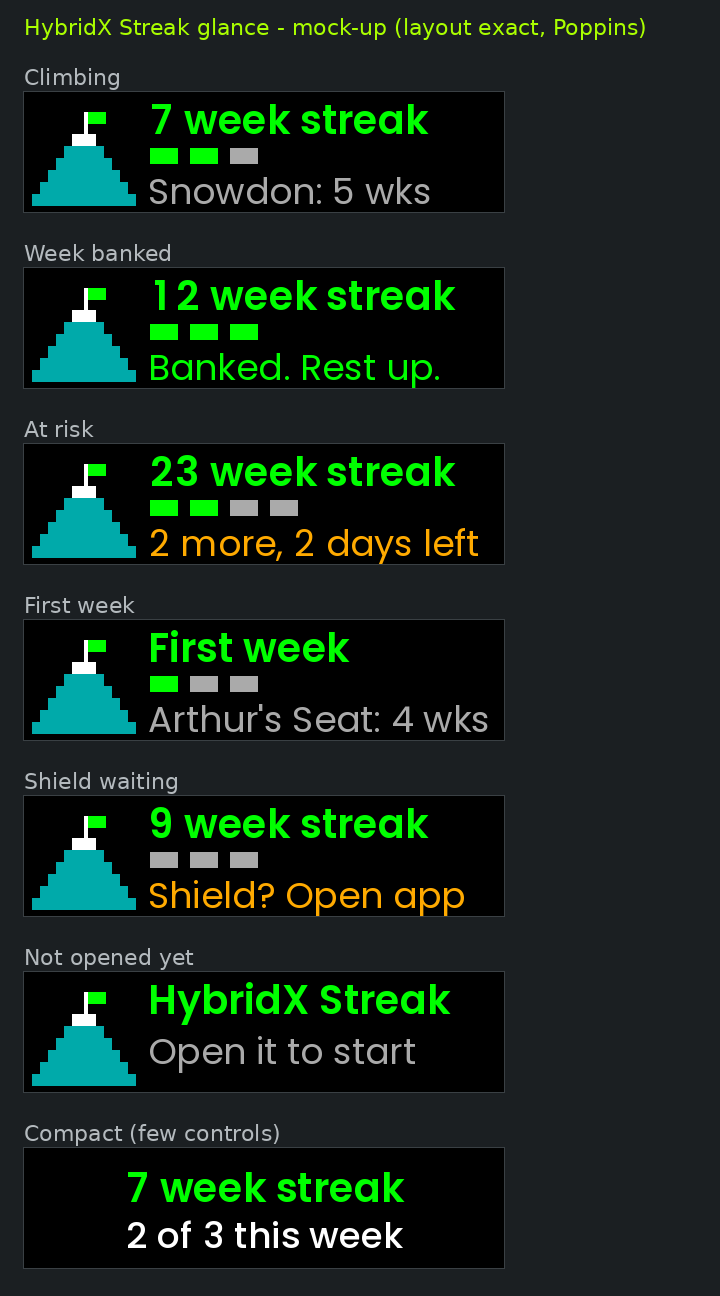
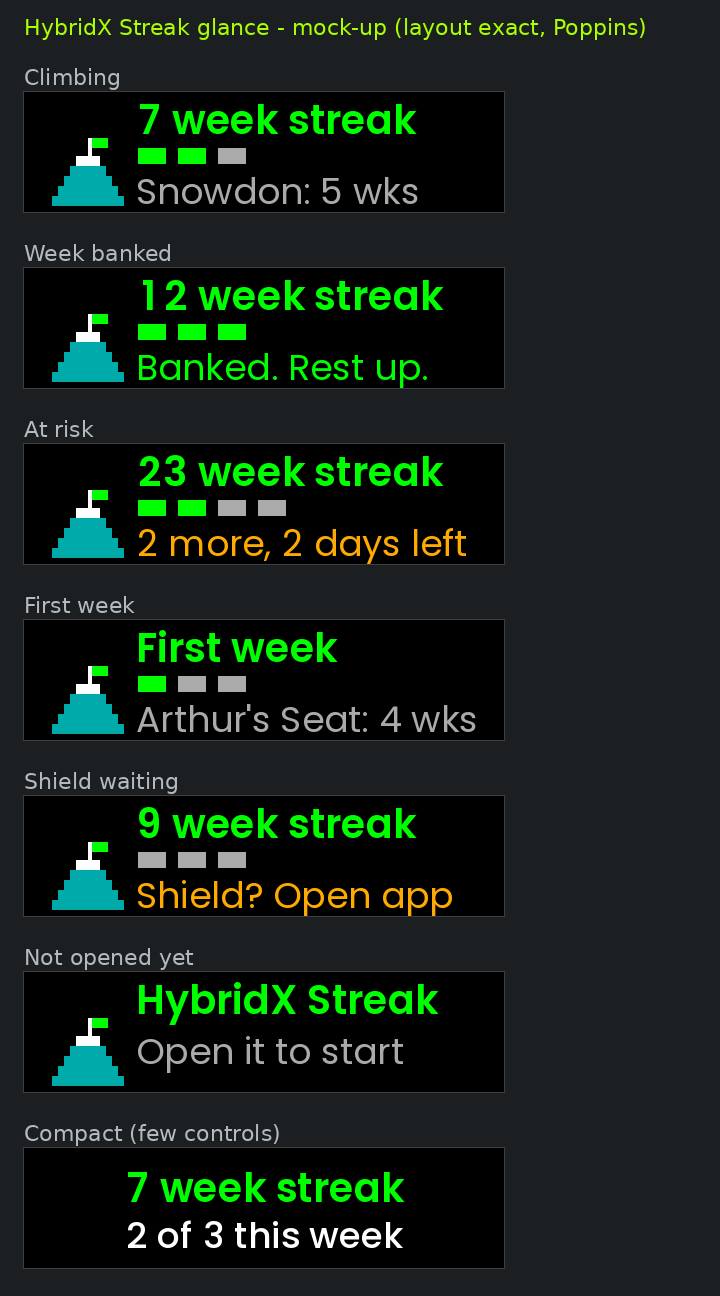
Streak glance: condense the mountain and hold the content in from the edges
On the watch the glance filled the round screen's full width, so the
mountain's foot ran into the list's curved scroll marker and the words sat
close to the right edge. The mountain is now five 5 px blocks, 36 px wide
(was six, 52 px), the content starts 14 px in (was 4), and the words keep
8 px clear on the right. No text changed: the longest line is 173 px in the
176 px available.

- Full layout needs 9 + target controls (at most 16).
- GlanceLayoutTest follows the smaller mountain and checks it starts at
  least 12 px in.
- Preview and NOTES S4.3 / DESIGN 8 updated.

Claude-Session: https://claude.ai/code/session_019GGBxFAqbmjDCAZjioYeW2

diff --git a/hybridx-streak/Software/Libs/Glance/Sources/GlanceLayout.cpp b/hybridx-streak/Software/Libs/Glance/Sources/GlanceLayout.cpp
@@ -30,16 +30,22 @@ constexpr int16_t kFullHeight    = kBeadTop + kBeadH + 1 + kLine;   ///< 60
 constexpr int16_t kTwoLineHeight = kHead + kLine;                   ///< 48
 // The mountain is stacked rectangles, not lines: on the watch the line
 // control drew only a faint stub (NOTES S4.3), while rectangles are proven.
-constexpr uint8_t  kTiers    = 6;            ///< stacked blocks, widest at the foot
-constexpr int16_t  kTierH    = 6;
+constexpr uint8_t  kTiers    = 5;            ///< stacked blocks, widest at the foot
+constexpr int16_t  kTierH    = 5;
 constexpr uint32_t kMountainControls = kTiers + 2;   ///< the tiers, the pole and the flag
 constexpr uint8_t  kMaxBeads = 7;            ///< targets are 1..7 (Goal)
-// The mountain's box, and the gap between it and the words. 52 + 6 leaves
-// 178 px of words in a 240 px area: the longest message, "Arthur's Seat:
-// 4 wks", is 173 px in Regular 18 (GlanceLayoutTest measures every one).
-constexpr int16_t kMountain = 52;
+// The glance sits in a round screen, with the list's scroll marker curving
+// over the left edge, so the content is held in from both sides: the
+// mountain is 36 px wide, starting 14 px in, and the words keep 8 px clear
+// on the right. That leaves 176 px of words in a 240 px area; the longest
+// message, "Arthur's Seat: 4 wks", is 173 px in Regular 18 (GlanceLayoutTest
+// measures every one).
+constexpr int16_t kInset    = 14;
+constexpr int16_t kMountain = 36;
 constexpr int16_t kWordsGap = 6;
-constexpr int16_t kFullWidth = 4 + kMountain + kWordsGap + 178;   ///< 240
+constexpr int16_t kRightGap = 8;
+constexpr int16_t kWordsMin = 176;
+constexpr int16_t kFullWidth = kInset + kMountain + kWordsGap + kWordsMin + kRightGap;   ///< 240
 
 unsigned u(uint32_t v) { return static_cast<unsigned>(v); }
 
@@ -183,21 +189,21 @@ void layout(const Streak::HomeView& v, State state, int16_t width, int16_t heigh
     // matters now.
     out.kind           = Layout::Kind::Full;
     const int16_t oy   = static_cast<int16_t>((height - kFullHeight) / 2);
-    const int16_t x0   = 4;
+    const int16_t x0   = kInset;
     const int16_t base = static_cast<int16_t>(oy + kFullHeight - 3);
     const int16_t top  = static_cast<int16_t>(base - kTiers * kTierH);
     const int16_t apex = static_cast<int16_t>(x0 + kMountain / 2);
-    const int16_t step = static_cast<int16_t>((kMountain - 12) / (kTiers - 1));   // 8: 52, 44 ... 12 wide
+    const int16_t step = static_cast<int16_t>((kMountain - 12) / (kTiers - 1));   // 6: 36, 30 ... 12 wide
     for (uint8_t i = 0; i < kTiers; ++i) {
         const int16_t w = static_cast<int16_t>(kMountain - i * step);
         rect(out, static_cast<int16_t>(x0 + i * step / 2), static_cast<int16_t>(base - (i + 1) * kTierH), w, kTierH,
              i == kTiers - 1 ? GLANCE_COLOR_WHITE : GLANCE_COLOR_TEAL);
     }
-    rect(out, apex, static_cast<int16_t>(top - 11), 2, 11, GLANCE_COLOR_WHITE);
-    rect(out, static_cast<int16_t>(apex + 2), static_cast<int16_t>(top - 11), 9, 6, GLANCE_COLOR_GREEN);
+    rect(out, apex, static_cast<int16_t>(top - 9), 2, 9, GLANCE_COLOR_WHITE);
+    rect(out, static_cast<int16_t>(apex + 2), static_cast<int16_t>(top - 9), 8, 5, GLANCE_COLOR_GREEN);
 
     const int16_t tx = static_cast<int16_t>(x0 + kMountain + kWordsGap);
-    const int16_t tw = static_cast<int16_t>(width - tx);
+    const int16_t tw = static_cast<int16_t>(width - tx - kRightGap);
     text(out, tx, oy, tw, kHead, w.head, GLANCE_FONT_POPPINS_SEMIBOLD_20, w.headColour, GLANCE_ALIGN_H_LEFT);
     // Beads: done in green, still to do in grey. Both filled rects, which
     // the watch is known to draw.

diff --git a/hybridx-streak/Tests/Host/GlanceLayoutTest.cpp b/hybridx-streak/Tests/Host/GlanceLayoutTest.cpp
@@ -116,8 +116,9 @@ TEST(GlanceLayout, FitsEveryAreaAndBudget)
     }
 }
 
-/// The full layout's mountain: 6 blocks, the flag pole and the flag.
-constexpr int kMountain = 8;
+/// The full layout's mountain: 5 blocks, the flag pole and the flag.
+constexpr int kMountain = 7;
+constexpr int kTiers    = 5;
 
 /// The full layout's bottom line: its last control.
 const Spec& bottom(const Layout& l) { return l.items[l.count - 1]; }
@@ -196,18 +197,20 @@ TEST(GlanceLayout, TheMountainNarrowsToACentredSummit)
     ASSERT_EQ(l.kind, Layout::Kind::Full);
     int16_t prevTop = 1000;
     int16_t prevW   = 1000;
-    for (int i = 0; i < 6; ++i) {   // the blocks, foot to summit
+    for (int i = 0; i < kTiers; ++i) {   // the blocks, foot to summit
         const Spec& b = l.items[i];
         ASSERT_EQ(b.type, Spec::Type::Rect) << i;
         EXPECT_LT(b.y, prevTop) << "each block sits above the last " << i;
         EXPECT_LT(b.w, prevW) << "and is narrower " << i;
-        EXPECT_EQ(b.x + b.w / 2, 4 + 26) << "centred under the summit " << i;
+        EXPECT_EQ(b.x + b.w / 2, 14 + 18) << "centred under the summit " << i;
         prevTop = b.y;
         prevW   = b.w;
     }
-    EXPECT_EQ(l.items[5].colour, GLANCE_COLOR_WHITE);   // the cap
-    // The flag stands on the summit.
-    EXPECT_EQ(l.items[6].y + l.items[6].h, l.items[5].y);
+    EXPECT_EQ(l.items[kTiers - 1].colour, GLANCE_COLOR_WHITE);   // the cap
+    // The flag pole stands on the summit.
+    EXPECT_EQ(l.items[kTiers].y + l.items[kTiers].h, l.items[kTiers - 1].y);
+    // Held in from the left edge, clear of the scroll marker.
+    EXPECT_GE(l.items[0].x, 12);
 }
 
 TEST(GlanceLayout, FewControlsGiveTheCompactLayout)
@@ -217,10 +220,10 @@ TEST(GlanceLayout, FewControlsGiveTheCompactLayout)
     EXPECT_EQ(l.kind, Layout::Kind::Compact);
     EXPECT_EQ(l.count, 2);
     EXPECT_STREQ(l.items[1].text, "2 of 3 this week");
-    // A target of 7 needs 17 controls for the full layout.
-    Glance::layout(view(7, 2, 7, Streak::Mood::Climbing), State::Normal, 240, 60, 16, l);
+    // A target of 7 needs 16 controls for the full layout.
+    Glance::layout(view(7, 2, 7, Streak::Mood::Climbing), State::Normal, 240, 60, 15, l);
     EXPECT_EQ(l.kind, Layout::Kind::Compact);
-    Glance::layout(view(7, 2, 7, Streak::Mood::Climbing), State::Normal, 240, 60, 17, l);
+    Glance::layout(view(7, 2, 7, Streak::Mood::Climbing), State::Normal, 240, 60, 16, l);
     EXPECT_EQ(l.kind, Layout::Kind::Full);
     Glance::layout(view(7, 2, 3, Streak::Mood::Climbing), State::Normal, 240, 30, 32, l);
     EXPECT_EQ(l.kind, Layout::Kind::Tiny);

diff --git a/hybridx-streak/Software/Libs/Glance/Header/GlanceLayout.hpp b/hybridx-streak/Software/Libs/Glance/Header/GlanceLayout.hpp
@@ -52,7 +52,7 @@ struct Spec {
 };
 
 struct Layout {
-    static constexpr uint8_t kMax = 20;   ///< the full layout uses at most 17
+    static constexpr uint8_t kMax = 20;   ///< the full layout uses at most 16
     Spec    items[kMax] {};
     uint8_t count = 0;
     enum class Kind : uint8_t { Full, Compact, Tiny } kind = Kind::Full;

diff --git a/hybridx-streak/docs/NOTES.md b/hybridx-streak/docs/NOTES.md
@@ -883,7 +883,7 @@ draw correctly (the flag, the beads, every word).
 narrowing by 8 px a tier to a 12 px white cap, with a 2 px white pole and the
 green flag on top. Same footprint as before, so the words still have 178 px.
 - The mountain is 8 controls (it was 5), so the full layout needs
-  10 + target controls (at most 17). `Layout::kMax` is 20. The watch reports
+  10 + target controls (at most 17), before it was condensed (below). `Layout::kMax` is 20. The watch reports
   32.
 - **Guards:** `GlanceLayoutTest` fails if the full layout contains a line
   control, and checks the mountain: each block above and narrower than the one
@@ -897,3 +897,19 @@ green flag on top. Same footprint as before, so the words still have 178 px.
 
 **Verified:** 115 host tests pass; the glance compiles for the watch. Jon to
 check the new mountain on the watch.
+
+**Condensed (Jon's photo of the S4.3 build):** the mountain drew well, but
+the glance filled the round screen's full width: the mountain's foot ran into
+the list's curved scroll marker on the left, and the words sat close to the
+right edge.
+- The mountain is smaller: five 5 px blocks, 36 px wide at the foot (it was
+  six 6 px blocks, 52 px), with a 9 px pole and an 8×5 px flag.
+- Content is held in from both edges: 14 px on the left (it was 4) and the
+  words keep 8 px clear on the right. The words have 176 px; the longest line,
+  "Arthur's Seat: 4 wks", is 173 px, so no text changed.
+- The full layout needs 9 + target controls (at most 16).
+- `GlanceLayoutTest` checks the mountain starts at least 12 px in.
+- The text sizes cannot shrink: only 18 and 20 point have letters (S4.2). If
+  the glance still feels large, the next step is a shorter bottom line, such
+  as the summit name alone.
+

diff --git a/hybridx-streak/docs/DESIGN.md b/hybridx-streak/docs/DESIGN.md
@@ -179,7 +179,7 @@ is a mock-up drawn from the real layout code):
 
 | Layout | When | What |
 |---|---|---|
-| Full | 10 + target controls (at most 17), 240×60 or more | a mountain of stacked blocks (teal, with a white cap) and a green flag; "7 week streak" (SemiBold 20, green); a row of beads, one per session of the week's target (done green, to do grey); one line (Regular 18) of what matters now: "Shield? Open app" (amber), "Banked. Rest up." (green), "Last day: 1 more" or "2 more, 3 days left" (amber), else the next summit, "Ben Nevis: 14 wks" (grey) |
+| Full | 9 + target controls (at most 16), 240×60 or more | a mountain of stacked blocks (teal, with a white cap) and a green flag; "7 week streak" (SemiBold 20, green); a row of beads, one per session of the week's target (done green, to do grey); one line (Regular 18) of what matters now: "Shield? Open app" (amber), "Banked. Rest up." (green), "Last day: 1 more" or "2 more, 3 days left" (amber), else the next summit, "Ben Nevis: 14 wks" (grey) |
 | Compact | fewer controls, or a smaller area | "7 week streak" and "2 of 3 this week", centred |
 | Tiny | under 48 px tall | "7 wk streak, 2/3" |
 
